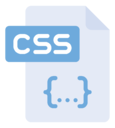
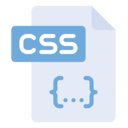
fix img to 128*128 and make some change on list layout

diff --git a/css/css.css b/css/css.css
@@ -23,9 +23,9 @@ a:hover{text-shadow:1px 5px 20px #000}
 .container{margin:0 auto;width:80%}
 .divider{height:5px;background:#eeedf0;width:60%;margin:10px auto}
 .navigation{margin:50px auto}
-.list-flex{display:flex;flex-direction:column-reverse;justify-content:center;text-indent:0}
+.list-flex{display:flex;flex-direction:column-reverse;text-indent:0}
 .item{display:flex;justify-content:center}
-.left-box{text-align:right;width:40%}
+.left-box{width:40%;display:flex;align-items:center;justify-content:flex-end;}
 .item-img img{width:200px}
 .item-title{font-size:1.5em}
 .item-date{font-size:.8em}
